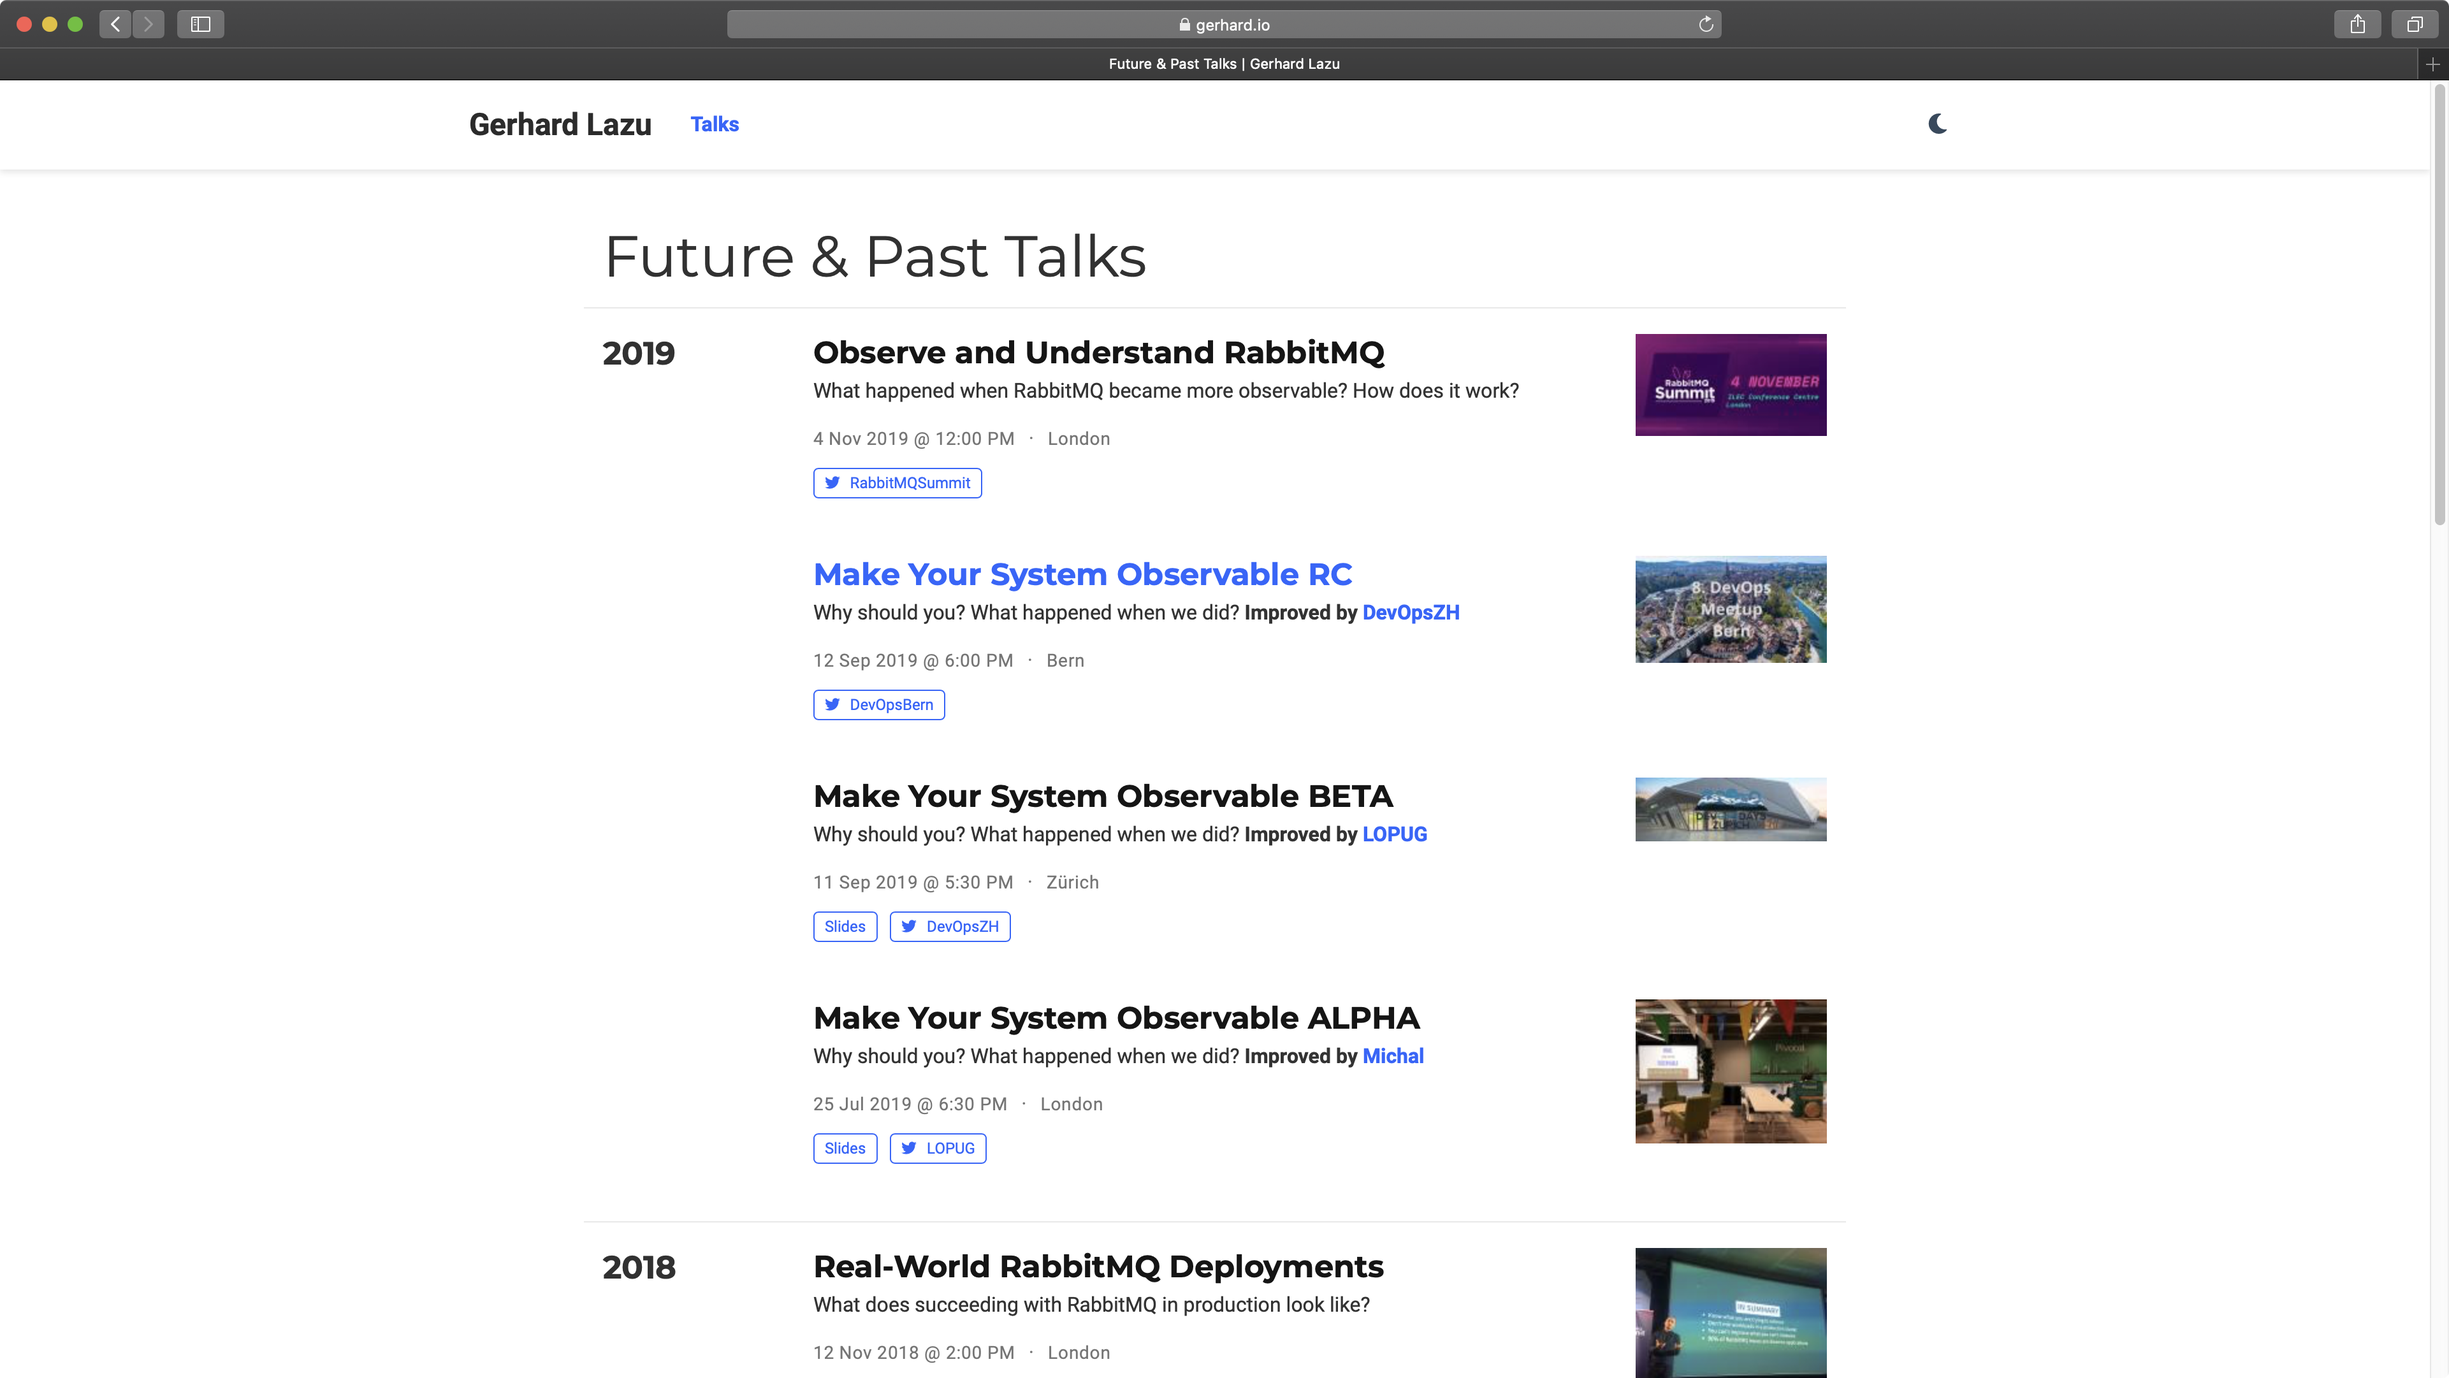
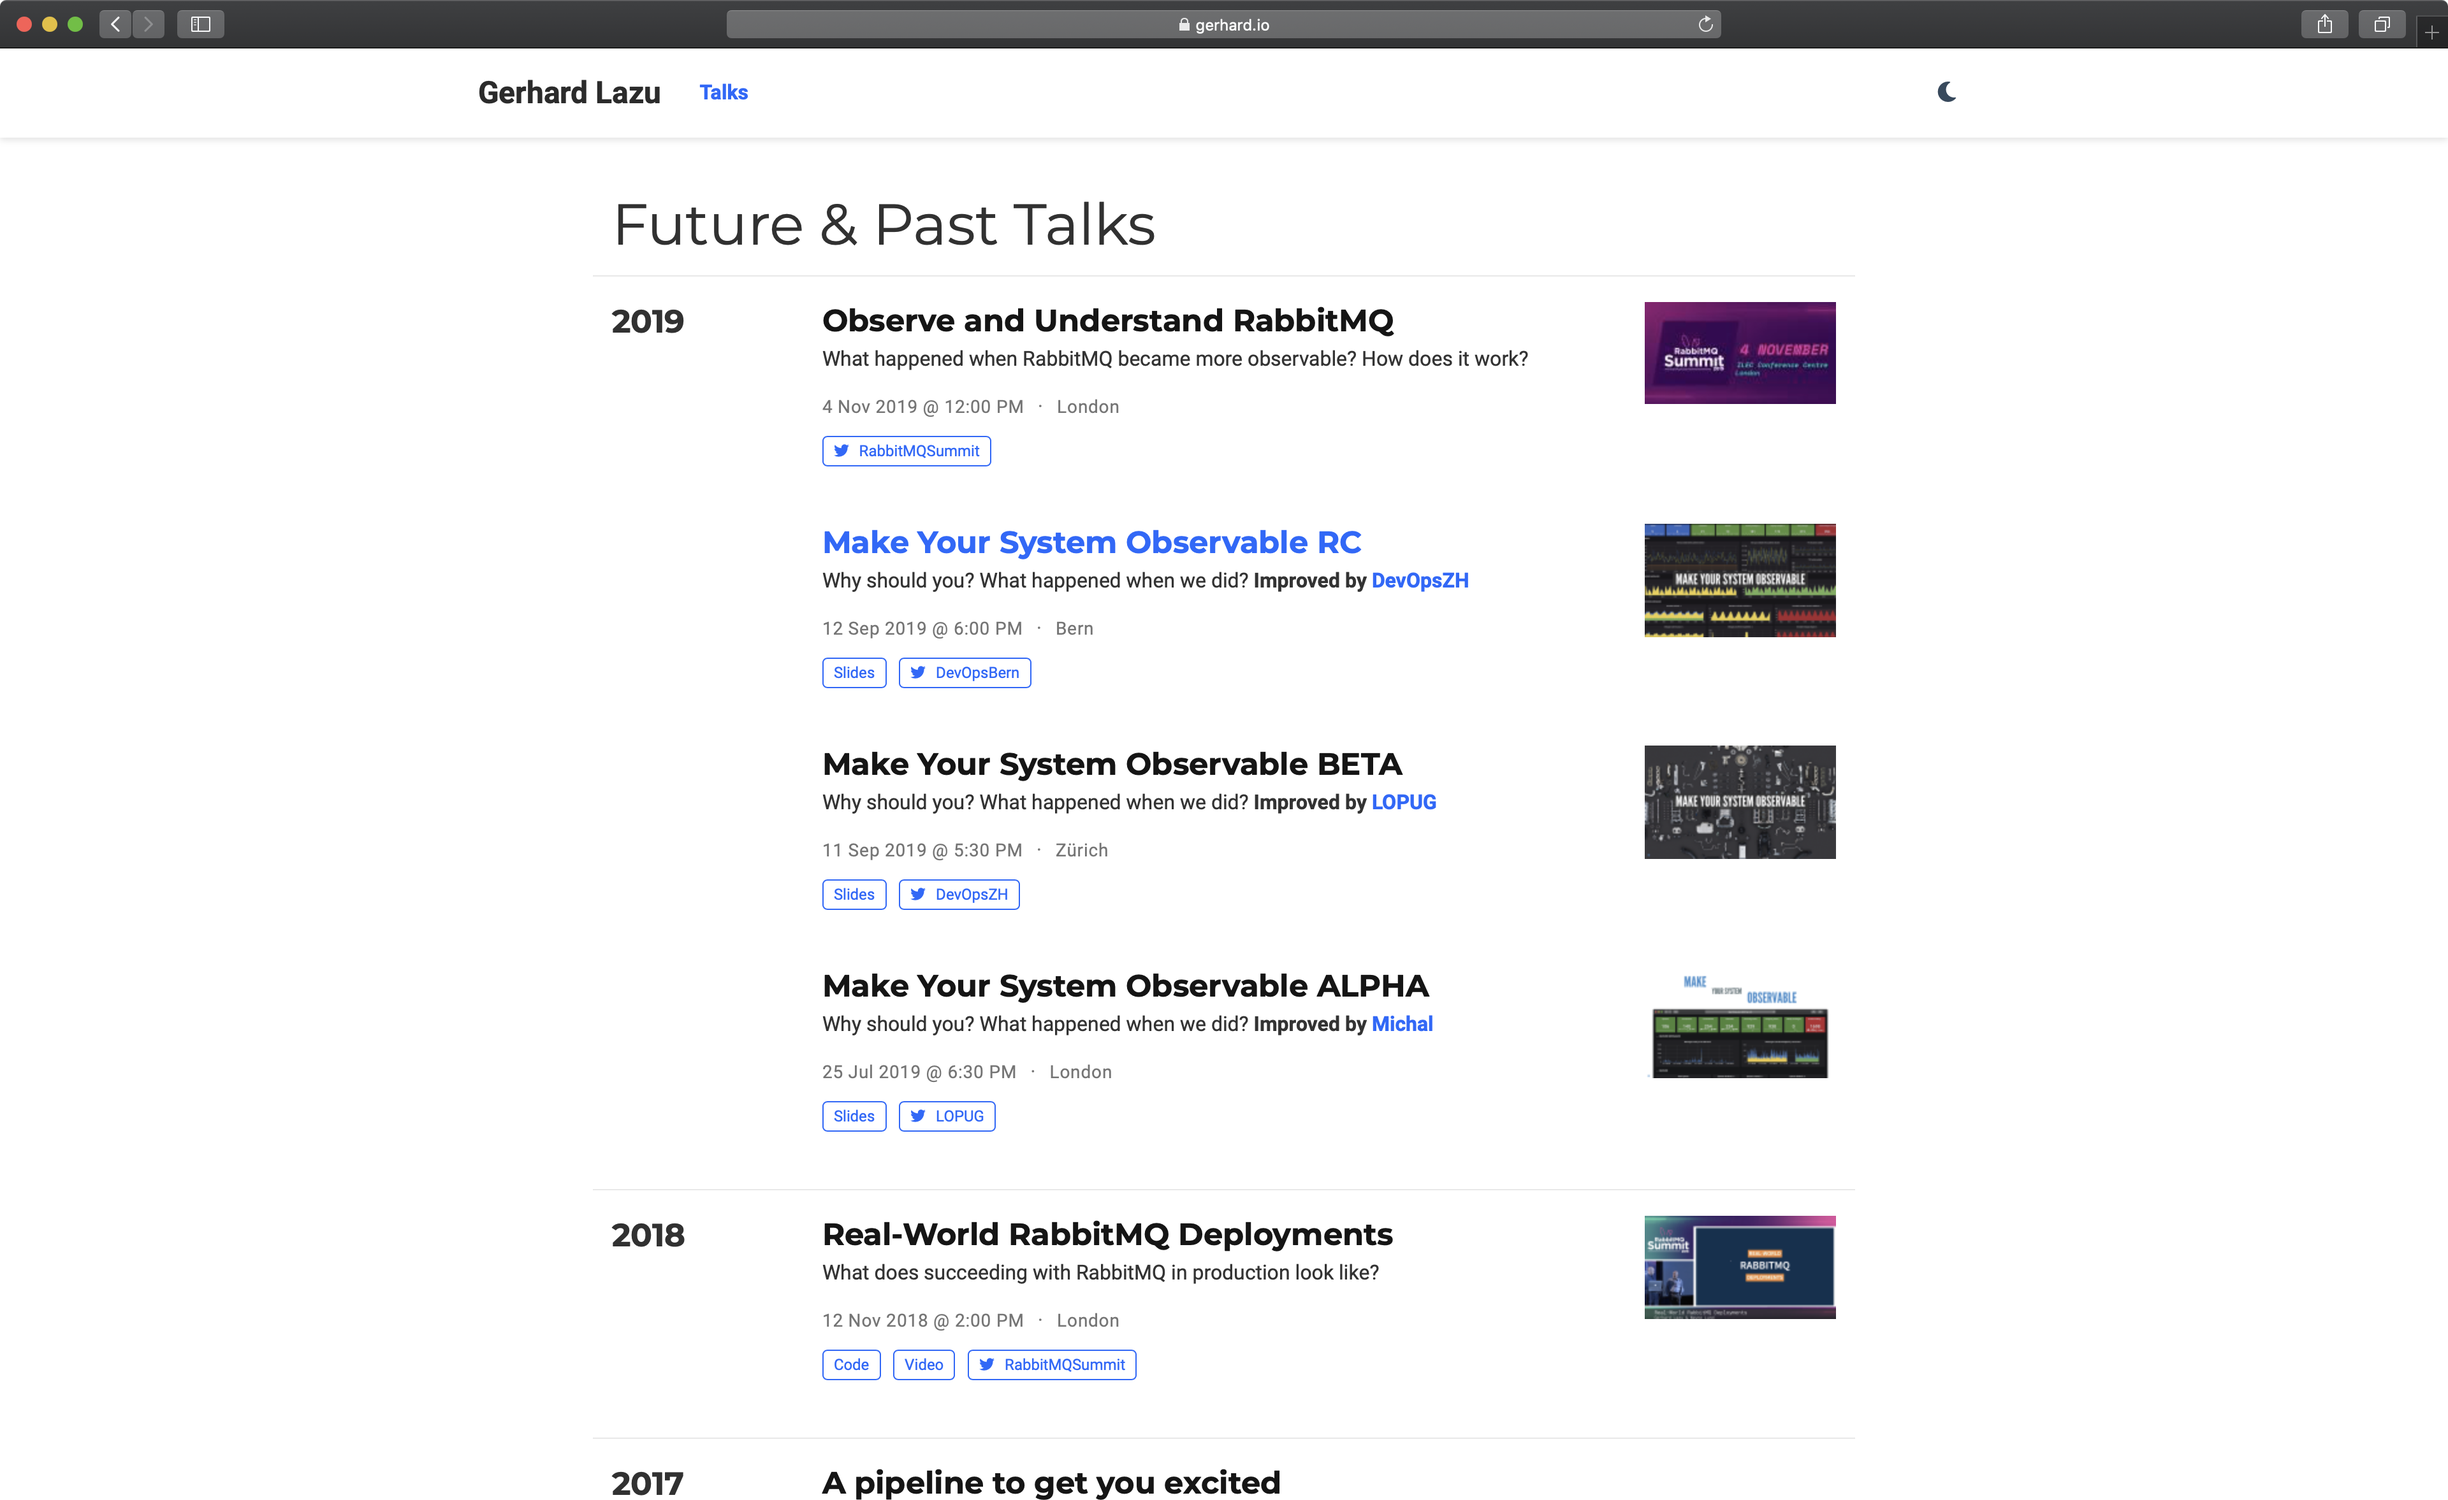
Improve Observable Systems RC version
+ Prune redundant images
+ Refresh talk screenshots

diff --git a/2019/content/slides/observable-systems-rc/index.md b/2019/content/slides/observable-systems-rc/index.md
@@ -21,6 +21,11 @@ slides:
 
 ---
 
+{{< slide background="url(/img/observable-systems/talk-journey-rc.png) 50% 0% / cover no-repeat" >}}
+<span class="menu-title">FOLLOW THE JOURNEY</span>
+
+---
+
 # [WHAT IS](#) RABBITMQ?
 
 ---
@@ -49,24 +54,26 @@ slides:
 
 ---
 
-{{< slide class="hiviz-light" background="url(/img/observable-systems/rabbitmq-management-overview-dist-tls.png) 50% 50% / cover no-repeat" >}}
-
 # Can we [observe better](#)?
 
 ---
 
 {{< slide background-video="/img/observable-systems/rabbitmq-overview-dist-tls.mp4" background-size="cover" >}}
-<span class="menu-title">Yes, but it doesn't always help</span>
+<span class="menu-title">Yes, but...</span>
+
+---
+  
+# Do we [understand](#)?
 
 ---
 
 {{< slide background-video="/img/observable-systems/erlang-distribution-pressure-dist-tls.mp4" background-size="cover" >}}
-<span class="menu-title">Observe Erlang Distribution</span>
+<span class="menu-title">Only in the right context</span>
 
 ---
 
 {{< slide background-video="/img/observable-systems/rabbitmq-prometheus-quick-start.mp4" background-size="cover" >}}
-<span class="menu-title">Try it</span>
+<span class="menu-title">You can do this today</span>
 
 ---
 
@@ -96,24 +103,24 @@ slides:
 ---
 
 {{< slide class="hiviz-light" background="url(/img/observable-systems/rabbitmq-management-overview.png) 50% 50% / cover no-repeat" >}}
-# Explained & understood [better](#)
+# [Better](#) conversations
 
 ---
 
 {{< slide background-video="/img/observable-systems/rabbitmq-overview-dashboard.mp4" background-size="cover" >}}
-<span class="menu-title">Understand like never before</span>
+<span class="menu-title">Explain & understand better</span>
 
 
 ---
 
 {{< slide class="hiviz-dark" background="url(/img/observable-systems/same-metrics-different-contexts.png) 50% 50% / cover no-repeat" >}}
 
-# [Build Your Own](#) Context
+# Build Your Own [Context](#)
 
 ---
 
 ### I DON'T RABBITMQ
-# But I [CI](#)
+# [But I](#) CI
 ### And I don't get it
 
 ---
@@ -134,11 +141,11 @@ slides:
 ---
 
 {{< slide background="url(/img/observable-systems/concourse-at-rabbitmq.png) 50% 50% / cover no-repeat" >}}
-<span class="menu-title">Value flows</span>
+<span class="menu-title">Many value flows</span>
 
 ---
 
-# [WHY](#) IS OBSERVABILITY IMPORTANT?
+# [WHY IS](#) OBSERVABILITY IMPORTANT?
 <span class="menu-title">WHY IS IT IMPORTANT?</span>
 
 ---
@@ -157,18 +164,12 @@ slides:
 
 ---
 
-# [Everybody wants it](#)
-<br>
-## But doesn't know where to start
+# [WHERE](#) DO YOU BEGIN?
 
 ---
+
+<span class="menu-title">3 Steps</span>
 
 # 1. [Expose metrics](#) in Prometheus format
 # 2. [Visualise them](#) with Grafana
-# 3. [Share](#) with us
-
----
-
-{{< slide background-video="/img/observable-systems/talk-journey-beta.mp4" background-size="cover" >}}
-
-<span class="menu-title">FOLLOW THE JOURNEY</span>
+# 3. [Learn](#) what works

diff --git a/2019/content/talk/real-world-rabbitmq/index.md b/2019/content/talk/real-world-rabbitmq/index.md
@@ -4,13 +4,13 @@ summary: What does succeeding with RabbitMQ in production look like?
 abstract: "We will learn from 3 different RabbitMQ enterprise messaging implementations: financial trading, vehicle telemetry & medical equipment monitoring."
 date: 2018-11-12T14:00:00Z
 
-event: RabbitMQ Summit
+event: RabbitMQ Summit 2018
 event_url: https://rabbitmqsummit.com
 location: London
 
 image:
-  caption: "Image credit: [**@DormainDrewitz**](https://twitter.com/i/moments/1062010422944038912)"
-  focal_point: Center
+  caption:
+  focal_point: Bottom
 
 
 links:

diff --git a/2019/content/talk/observable-systems-rc/index.md b/2019/content/talk/observable-systems-rc/index.md
@@ -32,6 +32,6 @@ url_pdf:
 url_slides:
 url_video:
 
-slides:
+slides: observable-systems-rc
 
 ---
